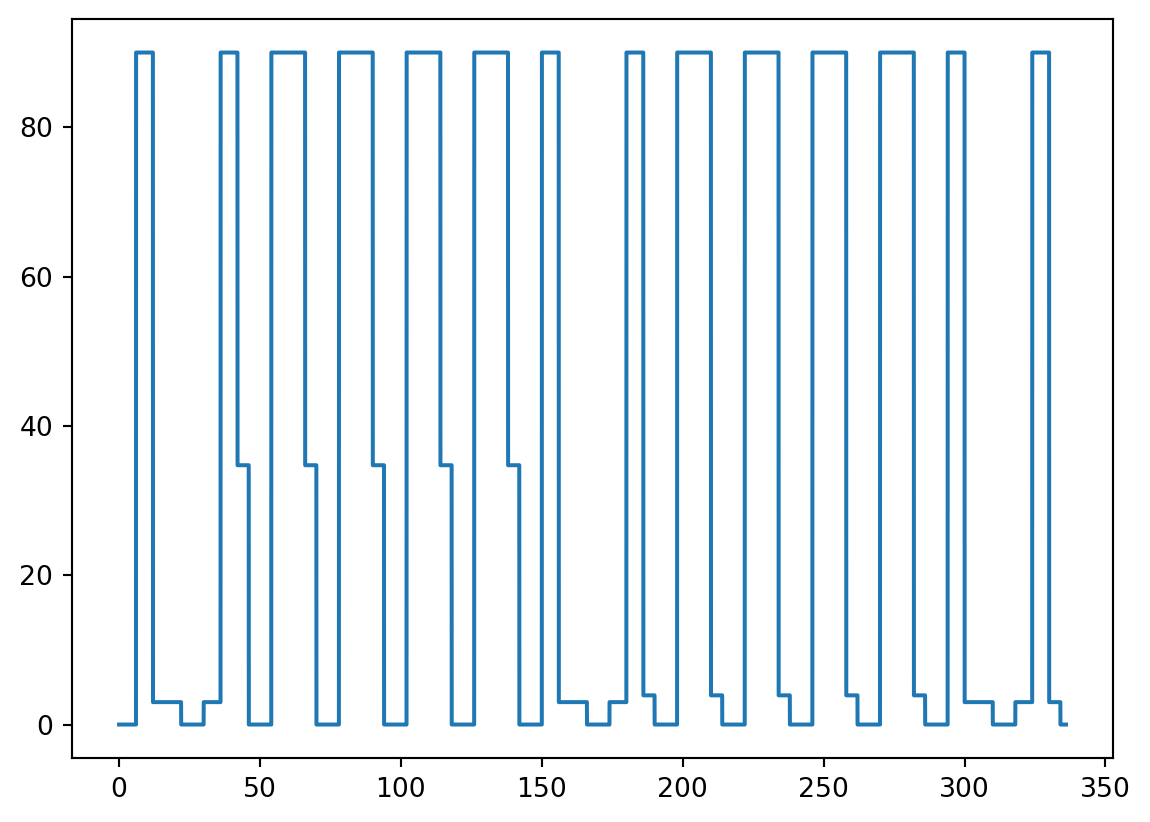
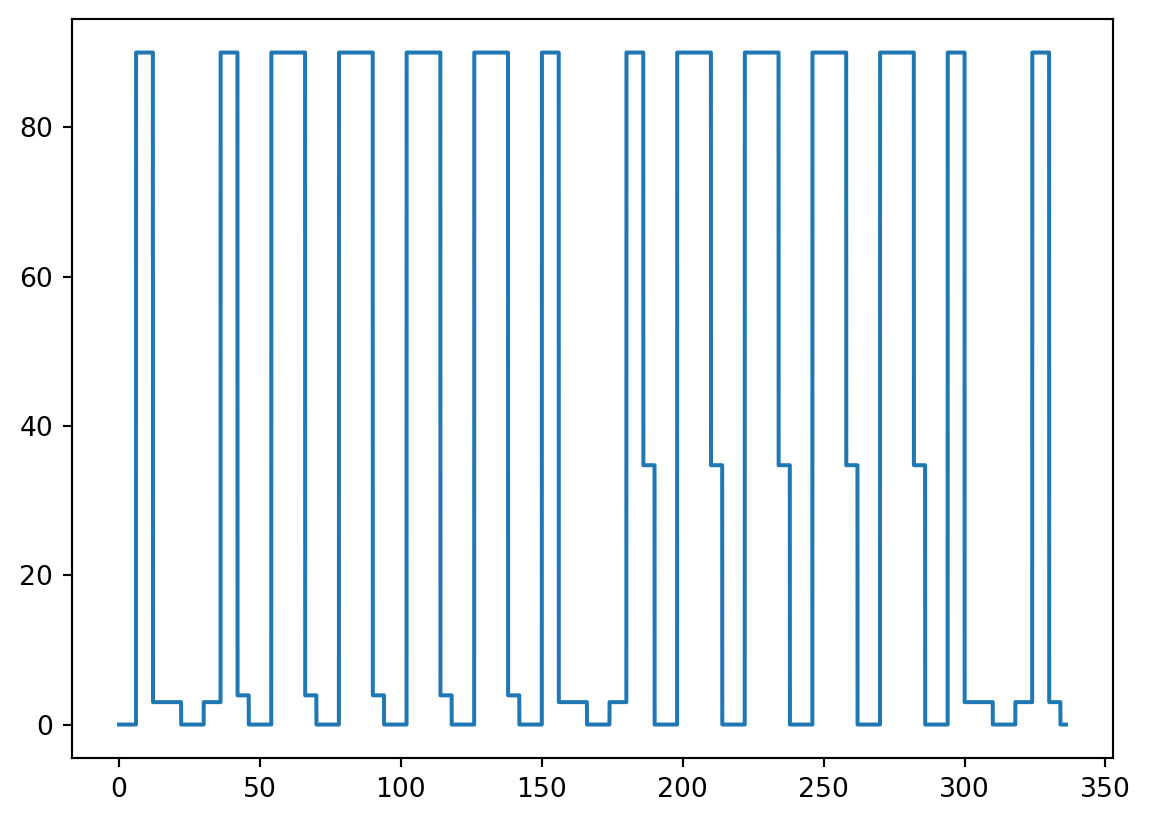
Fix light schedule plot and freeze calculations

diff --git a/docs/index.html b/docs/index.html
@@ -265,7 +265,9 @@ pre > code.sourceCode > span > a:first-child::before { text-decoration: underlin
 <section id="introduction" class="level1">
 <h1>Introduction</h1>
 <p>Mathematical modeling can help us understand how evening light affects our sleep. Throughout this document we use the <a href="https://arcascope.github.io/circadian/api/models.html#skeldon23"><code>Skeldon23()</code></a> model from the <a href="https://github.com/Arcascope/circadian"><code>circadian</code></a> package. The model tells us how the circadian state and sleep homeostat evolve over time. The only input to the model is the light received at each timepoint:</p>
-<div id="96e89ef3" class="cell" data-execution_count="1">
+<div id="70a69671" class="cell" data-execution_count="1">
+<details class="code-fold">
+<summary>Code</summary>
 <div class="sourceCode cell-code" id="cb1"><pre class="sourceCode python code-with-copy"><code class="sourceCode python"><span id="cb1-1"><a href="#cb1-1" aria-hidden="true" tabindex="-1"></a><span class="im">import</span> numpy <span class="im">as</span> np</span>
 <span id="cb1-2"><a href="#cb1-2" aria-hidden="true" tabindex="-1"></a><span class="im">import</span> matplotlib.pyplot <span class="im">as</span> plt</span>
 <span id="cb1-3"><a href="#cb1-3" aria-hidden="true" tabindex="-1"></a><span class="im">from</span> circadian.lights <span class="im">import</span> LightSchedule</span>
@@ -279,6 +281,7 @@ pre > code.sourceCode > span > a:first-child::before { text-decoration: underlin
 <span id="cb1-11"><a href="#cb1-11" aria-hidden="true" tabindex="-1"></a>plt.xlabel(<span class="st">'Time (hours)'</span>)</span>
 <span id="cb1-12"><a href="#cb1-12" aria-hidden="true" tabindex="-1"></a>plt.ylabel(<span class="st">'Light intensity'</span>)</span>
 <span id="cb1-13"><a href="#cb1-13" aria-hidden="true" tabindex="-1"></a>plt.show()</span></code><button title="Copy to Clipboard" class="code-copy-button"><i class="bi"></i></button></pre></div>
+</details>
 <div class="cell-output cell-output-display">
 <div class="quarto-figure quarto-figure-center">
 <figure class="figure">
@@ -288,7 +291,9 @@ pre > code.sourceCode > span > a:first-child::before { text-decoration: underlin
 </div>
 </div>
 </div>
-<div id="90e73e86" class="cell" data-execution_count="2">
+<div id="e36d3871" class="cell" data-execution_count="2">
+<details class="code-fold">
+<summary>Code</summary>
 <div class="sourceCode cell-code" id="cb2"><pre class="sourceCode python code-with-copy"><code class="sourceCode python"><span id="cb2-1"><a href="#cb2-1" aria-hidden="true" tabindex="-1"></a><span class="im">from</span> circadian.models <span class="im">import</span> Skeldon23</span>
 <span id="cb2-2"><a href="#cb2-2" aria-hidden="true" tabindex="-1"></a>model <span class="op">=</span> Skeldon23()</span>
 <span id="cb2-3"><a href="#cb2-3" aria-hidden="true" tabindex="-1"></a>trajectory <span class="op">=</span> model.integrate(time, <span class="bu">input</span><span class="op">=</span>light)</span>
@@ -298,6 +303,7 @@ pre > code.sourceCode > span > a:first-child::before { text-decoration: underlin
 <span id="cb2-7"><a href="#cb2-7" aria-hidden="true" tabindex="-1"></a>plt.xlabel(<span class="st">'Time (hours)'</span>)</span>
 <span id="cb2-8"><a href="#cb2-8" aria-hidden="true" tabindex="-1"></a>plt.ylabel(<span class="st">'Circadian state (a.u.)'</span>)</span>
 <span id="cb2-9"><a href="#cb2-9" aria-hidden="true" tabindex="-1"></a>plt.show()</span></code><button title="Copy to Clipboard" class="code-copy-button"><i class="bi"></i></button></pre></div>
+</details>
 <div class="cell-output cell-output-display">
 <div class="quarto-figure quarto-figure-center">
 <figure class="figure">

diff --git a/docs/chang14_light_schedule.html b/docs/chang14_light_schedule.html
@@ -265,7 +265,7 @@ pre > code.sourceCode > span > a:first-child::before { text-decoration: underlin
 <section id="chang14-light-schedule-implementation" class="level1">
 <h1>Chang14 light schedule implementation</h1>
 <p>Load light schedules (calculated using the <code>calculate_light_schedules.py</code> script).</p>
-<div id="1e94e7b5" class="cell" data-execution_count="1">
+<div id="e8b8aee3" class="cell" data-execution_count="1">
 <details class="code-fold">
 <summary>Code</summary>
 <div class="sourceCode cell-code" id="cb1"><pre class="sourceCode python code-with-copy"><code class="sourceCode python"><span id="cb1-1"><a href="#cb1-1" aria-hidden="true" tabindex="-1"></a><span class="im">import</span> numpy <span class="im">as</span> np</span>
@@ -278,7 +278,7 @@ pre > code.sourceCode > span > a:first-child::before { text-decoration: underlin
 <span id="cb1-8"><a href="#cb1-8" aria-hidden="true" tabindex="-1"></a>chang14_ebook_second_light <span class="op">=</span> np.load(data_location <span class="op">+</span> <span class="st">'chang14_ebook_second_light.npy'</span>)</span></code><button title="Copy to Clipboard" class="code-copy-button"><i class="bi"></i></button></pre></div>
 </details>
 </div>
-<div id="e22b30ee" class="cell" data-execution_count="2">
+<div id="d91395f1" class="cell" data-execution_count="2">
 <details class="code-fold">
 <summary>Code</summary>
 <div class="sourceCode cell-code" id="cb2"><pre class="sourceCode python code-with-copy"><code class="sourceCode python"><span id="cb2-1"><a href="#cb2-1" aria-hidden="true" tabindex="-1"></a><span class="im">import</span> matplotlib.pyplot <span class="im">as</span> plt</span>
@@ -286,7 +286,7 @@ pre > code.sourceCode > span > a:first-child::before { text-decoration: underlin
 <span id="cb2-3"><a href="#cb2-3" aria-hidden="true" tabindex="-1"></a>plt.figure(<span class="dv">1</span>)</span>
 <span id="cb2-4"><a href="#cb2-4" aria-hidden="true" tabindex="-1"></a>plt.plot(light_schedule_time, chang14_ebook_first_light)</span>
 <span id="cb2-5"><a href="#cb2-5" aria-hidden="true" tabindex="-1"></a>plt.figure(<span class="dv">2</span>)</span>
-<span id="cb2-6"><a href="#cb2-6" aria-hidden="true" tabindex="-1"></a>plt.plot(light_schedule_time, chang14_ebook_first_light)</span>
+<span id="cb2-6"><a href="#cb2-6" aria-hidden="true" tabindex="-1"></a>plt.plot(light_schedule_time, chang14_ebook_second_light)</span>
 <span id="cb2-7"><a href="#cb2-7" aria-hidden="true" tabindex="-1"></a>plt.show()</span></code><button title="Copy to Clipboard" class="code-copy-button"><i class="bi"></i></button></pre></div>
 </details>
 <div class="cell-output cell-output-display">
